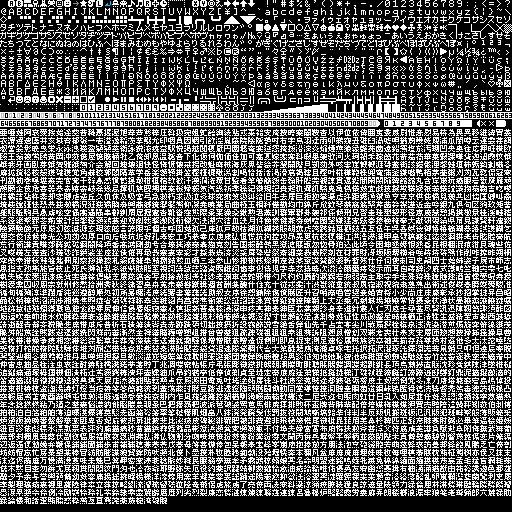
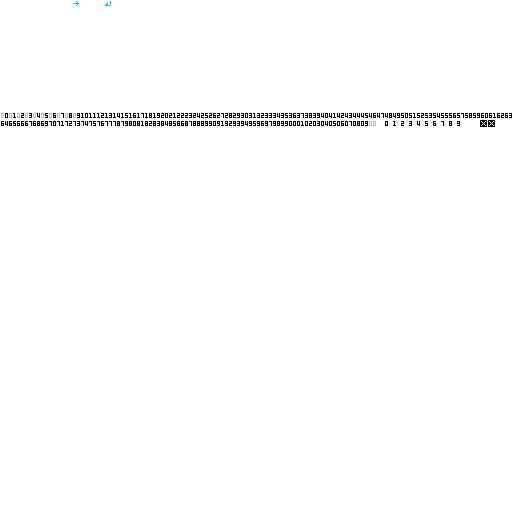
fixed line numbers, background color, added QSP, config.dat reading

diff --git a/screen.js b/screen.js
@@ -1,25 +1,33 @@
 //position of each character on the font sheet
 var lookup={0:[0,0],9:[9,0],10:[13,0],13:[13,0],32:[32,0],33:[33,0],34:[34,0],35:[35,0],36:[36,0],37:[37,0],38:[38,0],39:[39,0],40:[40,0],41:[41,0],42:[42,0],43:[43,0],44:[44,0],45:[45,0],46:[46,0],47:[47,0],48:[48,0],49:[49,0],50:[50,0],51:[51,0],52:[52,0],53:[53,0],54:[54,0],55:[55,0],56:[56,0],57:[57,0],58:[58,0],59:[59,0],60:[60,0],61:[61,0],62:[62,0],63:[63,0],64:[0,1],65:[1,1],66:[2,1],67:[3,1],68:[4,1],69:[5,1],70:[6,1],71:[7,1],72:[8,1],73:[9,1],74:[10,1],75:[11,1],76:[12,1],77:[13,1],78:[14,1],79:[15,1],80:[16,1],81:[17,1],82:[18,1],83:[19,1],84:[20,1],85:[21,1],86:[22,1],87:[23,1],88:[24,1],89:[25,1],90:[26,1],91:[27,1],92:[28,1],93:[29,1],94:[30,1],95:[31,1],96:[32,1],97:[33,1],98:[34,1],99:[35,1],100:[36,1],101:[37,1],102:[38,1],103:[39,1],104:[40,1],105:[41,1],106:[42,1],107:[43,1],108:[44,1],109:[45,1],110:[46,1],111:[47,1],112:[48,1],113:[49,1],114:[50,1],115:[51,1],116:[52,1],117:[53,1],118:[54,1],119:[55,1],120:[56,1],121:[57,1],122:[58,1],123:[59,1],124:[60,1],125:[61,1],126:[62,1],127:[63,1],160:[32,0],161:[58,5],162:[17,6],163:[19,6],164:[57,5],165:[28,1],166:[16,6],167:[13,6],168:[41,6],169:[28,6],170:[36,4],171:[49,8],172:[63,5],173:[61,8],174:[29,6],175:[48,4],176:[31,3],177:[2,6],178:[61,5],179:[62,5],180:[44,6],181:[56,6],182:[14,6],183:[24,10],184:[60,8],185:[60,5],186:[59,5],187:[50,8],188:[57,6],189:[58,6],190:[59,6],191:[60,6],192:[0,9],193:[1,9],194:[2,9],195:[3,9],196:[4,9],197:[5,9],198:[6,9],199:[7,9],200:[8,9],201:[9,9],202:[10,9],203:[11,9],204:[12,9],205:[13,9],206:[14,9],207:[15,9],208:[16,9],209:[17,9],210:[18,9],211:[19,9],212:[20,9],213:[21,9],214:[22,9],215:[0,6],216:[23,9],217:[25,9],218:[26,9],219:[27,9],220:[28,9],221:[29,9],222:[31,9],223:[63,9],224:[32,9],225:[33,9],226:[34,9],227:[35,9],228:[36,9],229:[37,9],230:[38,9],231:[39,9],232:[40,9],233:[41,9],234:[42,9],235:[43,9],236:[44,9],237:[45,9],238:[46,9],239:[47,9],240:[48,9],241:[49,9],242:[50,9],243:[51,9],244:[52,9],245:[53,9],246:[54,9],247:[1,6],248:[55,9],249:[57,9],250:[58,9],251:[59,9],252:[60,9],253:[61,9],254:[63,8],255:[62,9],256:[2,7],257:[2,8],258:[3,7],259:[3,8],260:[4,7],261:[4,8],262:[5,7],263:[5,8],264:[46,7],265:[46,8],266:[6,7],267:[6,8],268:[7,7],269:[7,8],270:[8,7],271:[8,8],272:[16,9],273:[48,9],274:[9,7],275:[9,8],276:[10,7],277:[10,8],278:[11,7],279:[11,8],280:[12,7],281:[12,8],282:[10,7],283:[10,8],284:[47,7],285:[47,8],286:[13,7],287:[13,8],288:[14,7],289:[14,8],290:[15,7],291:[15,8],292:[50,12],293:[50,13],294:[16,7],295:[16,8],296:[51,12],297:[51,13],298:[17,7],299:[17,8],300:[52,12],301:[52,13],302:[18,7],303:[18,8],304:[19,7],305:[20,8],306:[21,7],307:[21,8],308:[53,12],309:[53,13],310:[22,7],311:[22,8],312:[49,7],313:[23,7],314:[23,8],315:[24,7],316:[24,8],317:[25,7],318:[25,8],319:[54,12],320:[54,13],321:[26,7],322:[26,8],323:[27,7],324:[27,8],325:[28,7],326:[28,8],327:[29,7],328:[29,8],329:[42,8],330:[55,12],331:[55,13],332:[56,12],333:[56,13],334:[57,12],335:[57,13],336:[30,7],337:[30,8],338:[24,9],339:[56,9],340:[31,7],341:[31,8],342:[58,12],343:[58,13],344:[32,7],345:[32,8],346:[33,7],347:[33,8],348:[59,12],349:[59,13],350:[34,7],351:[34,8],352:[0,7],353:[0,8],354:[45,7],355:[45,8],356:[35,7],357:[35,8],358:[60,12],359:[60,13],360:[61,12],361:[61,13],362:[36,7],363:[36,8],364:[62,12],365:[62,13],366:[37,7],367:[37,8],368:[38,7],369:[38,8],370:[39,7],371:[39,8],372:[63,12],373:[63,13],374:[32,4],375:[33,4],376:[30,9],377:[40,7],378:[40,8],379:[41,7],380:[41,8],381:[1,7],382:[1,8],383:[47,6],402:[42,7],453:[43,7],454:[43,8],496:[31,13],498:[44,7],499:[44,8],538:[45,7],539:[45,8],711:[25,10],728:[26,10],729:[27,10],730:[0,12],731:[28,10],732:[29,10],894:[63,7],900:[42,6],901:[46,6],902:[51,7],903:[24,10],904:[52,7],905:[53,7],906:[54,7],908:[55,7],910:[56,7],911:[57,7],912:[60,7],913:[0,10],914:[1,10],915:[2,10],916:[3,10],917:[4,10],918:[5,10],919:[6,10],920:[7,10],921:[8,10],922:[9,10],923:[10,10],924:[11,10],925:[12,10],926:[13,10],927:[14,10],928:[15,10],929:[16,10],931:[17,10],932:[18,10],933:[19,10],934:[20,10],935:[21,10],936:[22,10],937:[23,10],938:[58,7],939:[59,7],940:[51,8],941:[52,8],942:[53,8],943:[54,8],944:[61,7],945:[32,10],946:[33,10],947:[34,10],948:[35,10],949:[36,10],950:[37,10],951:[38,10],952:[39,10],953:[40,10],954:[41,10],955:[42,10],956:[43,10],957:[44,10],958:[45,10],959:[46,10],960:[47,10],961:[48,10],962:[62,7],963:[49,10],964:[50,10],965:[51,10],966:[52,10],967:[53,10],968:[54,10],969:[55,10],970:[58,8],971:[59,8],972:[55,8],973:[56,8],974:[57,8],1025:[6,11],1040:[0,11],1041:[1,11],1042:[2,11],1043:[3,11],1044:[4,11],1045:[5,11],1046:[7,11],1047:[8,11],1048:[9,11],1049:[10,11],1050:[11,11],1051:[12,11],1052:[13,11],1053:[14,11],1054:[15,11],1055:[16,11],1056:[17,11],1057:[18,11],1058:[19,11],1059:[20,11],1060:[21,11],1061:[22,11],1062:[23,11],1063:[24,11],1064:[25,11],1065:[26,11],1066:[27,11],1067:[28,11],1068:[29,11],1069:[30,11],1070:[31,11],1071:[48,7],1072:[32,11],1073:[33,11],1074:[34,11],1075:[35,11],1076:[36,11],1077:[37,11],1078:[39,11],1079:[40,11],1080:[41,11],1081:[42,11],1082:[43,11],1083:[44,11],1084:[45,11],1085:[46,11],1086:[47,11],1087:[48,11],1088:[49,11],1089:[50,11],1090:[51,11],1091:[52,11],1092:[53,11],1093:[54,11],1094:[55,11],1095:[56,11],1096:[57,11],1097:[58,11],1098:[59,11],1099:[60,11],1100:[61,11],1101:[62,11],1102:[63,11],1103:[48,8],1105:[38,11],8211:[61,8],8212:[45,0],8216:[44,6],8217:[58,10],8218:[59,10],8219:[60,10],8220:[30,6],8221:[31,6],8222:[57,10],8224:[11,6],8225:[12,6],8230:[37,4],8240:[20,6],8242:[42,6],8243:[45,6],8249:[62,6],8250:[63,6],8251:[26,6],8361:[56,10],8364:[18,6],8470:[31,4],8482:[61,6],8592:[29,0],8593:[30,0],8594:[28,0],8595:[31,0],8658:[21,6],8660:[22,6],8704:[3,6],8706:[4,6],8730:[30,4],8734:[7,6],8756:[8,6],8757:[9,6],8834:[5,6],8835:[6,6],8978:[10,6],9472:[21,2],9473:[30,12],9474:[22,2],9475:[31,12],9484:[24,2],9487:[32,12],9488:[25,2],9491:[33,12],9492:[26,2],9495:[34,12],9496:[27,2],9499:[35,12],9500:[18,2],9501:[47,12],9504:[44,12],9507:[27,12],9508:[20,2],9509:[49,12],9512:[46,12],9515:[29,12],9516:[17,2],9519:[41,12],9520:[43,12],9523:[26,12],9524:[16,2],9527:[40,12],9528:[42,12],9531:[25,12],9532:[19,2],9535:[48,12],9538:[45,12],9547:[28,12],9588:[23,12],9589:[24,12],9590:[21,12],9591:[22,12],9592:[38,12],9593:[39,12],9594:[36,12],9595:[37,12],9632:[32,3],9633:[36,3],9650:[34,3],9651:[38,3],9660:[35,3],9661:[39,3],9670:[50,3],9671:[0,2],9675:[37,3],9678:[26,0],9679:[33,3],9733:[10,0],9734:[50,6],9792:[24,6],9794:[25,6],9824:[48,3],9825:[61,10],9826:[0,2],9827:[51,3],9828:[27,12.75],9829:[49,3],9830:[50,3],9831:[62,10],9834:[16,0],9837:[27,6],12288:[32,0],12289:[36,2],12290:[33,2],12291:[36,6],12293:[34,6],12294:[39,6],12296:[51,6],12297:[52,6],12298:[53,6],12299:[54,6],12300:[34,2],12301:[35,2],12302:[34,4],12303:[35,4],12304:[48,6],12305:[49,6],12306:[23,6],12316:[32,2],12317:[33,6],12319:[32,6],12353:[39,4],12354:[49,4],12355:[40,4],12356:[50,4],12357:[41,4],12358:[51,4],12359:[42,4],12360:[52,4],12361:[43,4],12362:[53,4],12363:[54,4],12364:[32,5],12365:[55,4],12366:[33,5],12367:[56,4],12368:[34,5],12369:[57,4],12370:[35,5],12371:[58,4],12372:[36,5],12373:[59,4],12374:[37,5],12375:[60,4],12376:[38,5],12377:[61,4],12378:[39,5],12379:[62,4],12380:[40,5],12381:[63,4],12382:[41,5],12383:[0,5],12384:[42,5],12385:[1,5],12386:[43,5],12387:[47,4],12388:[2,5],12389:[44,5],12390:[3,5],12391:[45,5],12392:[4,5],12393:[46,5],12394:[5,5],12395:[6,5],12396:[7,5],12397:[8,5],12398:[9,5],12399:[10,5],12400:[47,5],12401:[52,5],12402:[11,5],12403:[48,5],12404:[53,5],12405:[12,5],12406:[49,5],12407:[54,5],12408:[13,5],12409:[50,5],12410:[55,5],12411:[14,5],12412:[51,5],12413:[56,5],12414:[15,5],12415:[16,5],12416:[17,5],12417:[18,5],12418:[19,5],12419:[44,4],12420:[20,5],12421:[45,4],12422:[21,5],12423:[46,4],12424:[22,5],12425:[23,5],12426:[24,5],12427:[25,5],12428:[26,5],12429:[27,5],12430:[29,4],12431:[28,5],12434:[38,4],12435:[29,5],12443:[30,5],12444:[31,5],12445:[37,6],12446:[38,6],12449:[39,2],12450:[49,2],12451:[40,2],12452:[50,2],12453:[41,2],12454:[51,2],12455:[42,2],12456:[52,2],12457:[43,2],12458:[53,2],12459:[54,2],12460:[0,4],12461:[55,2],12462:[1,4],12463:[56,2],12464:[2,4],12465:[57,2],12466:[3,4],12467:[58,2],12468:[4,4],12469:[59,2],12470:[5,4],12471:[60,2],12472:[6,4],12473:[61,2],12474:[7,4],12475:[62,2],12476:[8,4],12477:[63,2],12478:[9,4],12479:[0,3],12480:[10,4],12481:[1,3],12482:[11,4],12483:[47,2],12484:[2,3],12485:[12,4],12486:[3,3],12487:[13,4],12488:[4,3],12489:[14,4],12490:[5,3],12491:[6,3],12492:[7,3],12493:[8,3],12494:[9,3],12495:[10,3],12496:[15,4],12497:[20,4],12498:[11,3],12499:[16,4],12500:[21,4],12501:[12,3],12502:[17,4],12503:[22,4],12504:[13,3],12505:[18,4],12506:[23,4],12507:[14,3],12508:[19,4],12509:[24,4],12510:[15,3],12511:[16,3],12512:[17,3],12513:[18,3],12514:[19,3],12515:[44,2],12516:[20,3],12517:[45,2],12518:[21,3],12519:[46,2],12520:[22,3],12521:[23,3],12522:[24,3],12523:[25,3],12524:[26,3],12525:[27,3],12526:[28,4],12527:[28,3],12530:[38,2],12531:[29,3],12532:[25,4],12533:[26,4],12534:[27,4],12539:[37,2],12540:[48,2],20189:[35,6],57600:[0,14],57601:[1,14],57602:[2,14],57603:[3,14],57604:[4,14],57605:[5,14],57606:[6,14],57607:[7,14],57608:[8,14],57609:[9,14],57610:[10,14],57611:[11,14],57612:[12,14],57613:[13,14],57614:[14,14],57615:[15,14],57616:[16,14],57617:[17,14],57618:[18,14],57619:[19,14],57620:[20,14],57621:[21,14],57622:[22,14],57623:[23,14],57624:[24,14],57625:[25,14],57626:[26,14],57627:[27,14],57628:[28,14],57629:[29,14],57630:[30,14],57631:[31,14],57632:[32,14],57633:[33,14],57634:[34,14],57635:[35,14],57636:[36,14],57637:[37,14],57638:[38,14],57639:[39,14],57640:[40,14],57641:[41,14],57642:[42,14],57643:[43,14],57644:[44,14],57645:[45,14],57646:[46,14],57647:[47,14],57648:[48,14],57649:[49,14],57650:[50,14],57651:[51,14],57652:[52,14],57653:[53,14],57654:[54,14],57655:[55,14],57656:[56,14],57657:[57,14],57658:[58,14],57659:[59,14],57660:[60,14],57661:[61,14],57662:[62,14],57663:[63,14],57664:[0,15],57665:[1,15],57666:[2,15],57667:[3,15],57668:[4,15],57669:[5,15],57670:[6,15],57671:[7,15],57672:[8,15],57673:[9,15],57674:[10,15],57675:[11,15],57676:[12,15],57677:[13,15],57678:[14,15],57679:[15,15],57680:[16,15],57681:[17,15],57682:[18,15],57683:[19,15],57684:[20,15],57685:[21,15],57686:[22,15],57687:[23,15],57688:[24,15],57689:[25,15],57690:[26,15],57691:[27,15],57692:[28,15],57693:[29,15],57694:[30,15],57695:[31,15],57696:[32,15],57697:[33,15],57698:[34,15],57699:[35,15],57700:[36,15],57701:[37,15],57702:[38,15],57703:[39,15],57704:[40,15],57705:[41,15],57706:[42,15],57707:[43,15],57708:[44,15],57709:[45,15],57710:[46,15],57711:[47,15],57712:[48,15],57713:[49,15],57714:[50,15],57715:[51,15],57716:[52,15],57717:[53,15],57718:[54,15],57719:[55,15],57720:[56,15],57721:[57,15],57722:[58,15],57723:[59,15],57724:[60,15],57725:[61,15],57726:[62,15],57727:[63,15],57856:[32,0],57857:[1,0],57858:[2,0],57859:[3,0],57860:[4,0],57861:[5,0],57862:[6,0],57863:[7,0],57864:[8,0],57865:[9,0],57866:[10,0],57867:[11,0],57868:[12,0],57869:[13,0],57870:[14,0],57871:[15,0],57872:[16,0],57873:[17,0],57874:[18,0],57875:[19,0],57876:[20,0],57877:[21,0],57878:[22,0],57879:[23,0],57880:[24,0],57881:[25,0],57882:[26,0],57883:[27,0],57884:[28,0],57885:[29,0],57886:[30,0],57887:[31,0],57888:[0,12],57889:[1,12],57890:[2,12],57891:[3,12],57892:[4,12],57893:[5,12],57894:[6,12],57895:[7,12],57896:[8,12],57897:[9,12],57898:[10,12],57899:[11,12],57900:[12,12],57901:[13,12],57902:[14,12],57903:[15,12],57904:[16,12],57905:[17,12],57906:[18,12],57907:[19,12],57908:[20,12],57909:[55,6],57910:[50,7],57911:[62,8],57912:[31,10],57913:[27,13],57914:[21,13],57915:[22,13],57916:[23,13],57917:[24,13],57918:[25,13],57919:[26,13],57920:[0,13],57921:[1,13],57922:[2,13],57923:[3,13],57924:[4,13],57925:[5,13],57926:[6,13],57927:[7,13],57928:[8,13],57929:[9,13],57930:[10,13],57931:[11,13],57932:[12,13],57933:[13,13],57934:[14,13],57935:[15,13],57936:[16,13],57937:[17,13],57938:[18,13],57939:[19,13],57940:[20,13],57941:[21,13],57942:[22,13],57943:[23,13],57944:[24,13],57945:[25,13],57946:[26,13],57952:[21,12],57953:[22,12],57954:[23,12],57955:[24,12],57956:[25,12],57957:[26,12],57958:[27,12],57959:[28,12],57960:[29,12],57961:[30,12],57962:[31,12],57963:[32,12],57964:[33,12],57965:[34,12],57966:[35,12],57967:[36,12],57968:[37,12],57969:[38,12],57970:[39,12],57971:[40,12],57972:[41,12],57973:[42,12],57974:[43,12],57975:[44,12],57976:[45,12],57977:[46,12],57978:[47,12],57979:[48,12],57980:[49,12],57981:[1,12],57982:[10,12],57983:[11,12],57984:[0,2],57985:[1,2],57986:[2,2],57987:[3,2],57988:[4,2],57989:[5,2],57990:[6,2],57991:[7,2],57992:[8,2],57993:[9,2],57994:[10,2],57995:[11,2],57996:[12,2],57997:[13,2],57998:[14,2],57999:[15,2],58000:[16,2],58001:[17,2],58002:[18,2],58003:[19,2],58004:[20,2],58005:[21,2],58006:[22,2],58007:[23,2],58008:[24,2],58009:[25,2],58010:[26,2],58011:[27,2],58012:[28,2],58013:[29,2],58014:[30,2],58015:[31,2],58016:[32,13],58017:[33,13],58018:[34,13],58019:[35,13],58020:[36,13],58021:[37,13],58022:[38,13],58023:[39,13],58024:[40,13],58025:[41,13],58026:[42,13],58027:[43,13],58028:[44,13],58029:[45,13],58030:[46,13],58031:[47,13],58032:[48,13],58033:[49,13],58034:[0,13],58035:[1,13],58036:[2,13],58037:[3,13],58038:[4,13],58039:[5,13],58040:[6,13],58041:[7,13],58042:[8,13],58043:[9,13],58044:[2,12],58045:[3,12],58046:[4,12],58047:[20,13],58048:[10,13],58049:[11,13],58050:[12,13],58051:[13,13],58052:[14,13],58053:[15,13],58054:[16,13],58055:[17,13],58056:[18,13],58057:[19,13],58080:[32,3],58081:[33,3],58082:[34,3],58083:[35,3],58084:[36,3],58085:[37,3],58086:[38,3],58087:[39,3],58088:[40,3],58089:[41,3],58090:[42,3],58091:[43,3],58092:[44,3],58093:[45,3],58094:[46,3],58095:[47,3],58096:[48,3],58097:[49,3],58098:[50,3],58099:[51,3],58100:[52,3],58101:[53,3],58102:[54,3],58103:[55,3],58104:[56,3],58105:[57,3],58106:[58,3],58107:[59,3],58108:[60,3],58109:[61,3],58110:[62,3],58111:[63,3],65280:[32,0],65281:[33,0],65282:[34,0],65283:[35,0],65284:[36,0],65285:[37,0],65286:[38,0],65287:[39,0],65288:[40,0],65289:[41,0],65290:[42,0],65291:[43,0],65292:[44,0],65293:[45,0],65294:[46,0],65295:[47,0],65296:[48,0],65297:[49,0],65298:[50,0],65299:[51,0],65300:[52,0],65301:[53,0],65302:[54,0],65303:[55,0],65304:[56,0],65305:[57,0],65306:[58,0],65307:[59,0],65308:[60,0],65309:[61,0],65310:[62,0],65311:[63,0],65312:[0,1],65313:[1,1],65314:[2,1],65315:[3,1],65316:[4,1],65317:[5,1],65318:[6,1],65319:[7,1],65320:[8,1],65321:[9,1],65322:[10,1],65323:[11,1],65324:[12,1],65325:[13,1],65326:[14,1],65327:[15,1],65328:[16,1],65329:[17,1],65330:[18,1],65331:[19,1],65332:[20,1],65333:[21,1],65334:[22,1],65335:[23,1],65336:[24,1],65337:[25,1],65338:[26,1],65339:[27,1],65340:[28,1],65341:[29,1],65342:[30,1],65343:[31,1],65344:[32,1],65345:[33,1],65346:[34,1],65347:[35,1],65348:[36,1],65349:[37,1],65350:[38,1],65351:[39,1],65352:[40,1],65353:[41,1],65354:[42,1],65355:[43,1],65356:[44,1],65357:[45,1],65358:[46,1],65359:[47,1],65360:[48,1],65361:[49,1],65362:[50,1],65363:[51,1],65364:[52,1],65365:[53,1],65366:[54,1],65367:[55,1],65368:[56,1],65369:[57,1],65370:[58,1],65371:[59,1],65372:[15,6],65373:[61,1],65374:[32,2]};
 
-var x,y,line,fullWidth=50,fullHeight=30,charSize=8,bw=4;
-var width=fullWidth-bw,height=fullHeight-1;
+var charSize=8,bw=4; //size of char, width of left border
+var fullWidth,fullHeight; //full size of the screen (in chars)
+var width,height; //size of editor (in chars)
+var x,y,line;
+
 var background;
 
 var bufferCanvas=document.createElement("canvas");
-bufferCanvas.width=400;
-bufferCanvas.height=240;
 var screenContext=bufferCanvas.getContext("2d");
 
-function changeHeight(rows){
-	height=rows;
+changeSize(50-bw,30-1);
+
+function changeSize(newWidth,newHeight){
+	height=newHeight;
 	fullHeight=height+1;
 	bufferCanvas.height=fullHeight*charSize;
+	
+	width=newWidth;
+	fullWidth=width+bw;
+	bufferCanvas.width=fullWidth*charSize;
 }
 
 var colors={};
 
 var nextNewLine;
 
+//draw section of code (highlighter callback function)
 function putpart(code,type){
 	if(y>=height)
 		return;
@@ -46,6 +54,7 @@ function putpart(code,type){
 	}
 }
 
+//draw line number
 function startline(line){
 	var started=false,n,symbol;
 	for(var i=0;i<3;i++){
@@ -63,6 +72,7 @@ function startline(line){
 	putchar(3,y,0xE16F,0xC6C6C6);
 }
 
+//draw empty/continued line
 function passline(){
 	for(var i=0;i<3;i++)
 		putchar(i,y,0xE17E,0xC6C6C6);
@@ -73,11 +83,12 @@ function toCssColor(color){
 	return "rgb("+(color>>16)+","+(color>>8 & 255)+","+(color & 255)+")";
 }
 
+//calculate height of code (line wrap enabled)
 function codeHeight(code,cols){
 	var rows=0;
 	var rowLength=0;
 	for(var i=0;i<code.length;i++){ //slow xd
-		++rowLength
+		++rowLength;
 		if(code.charAt(i)=="\n" || i==code.length-1){
 			rows+=Math.ceil(rowLength/cols);
 			rowLength=0;
@@ -86,8 +97,13 @@ function codeHeight(code,cols){
 	return rows;
 }
 
-function makeScreenshot(code,newColors,rows){
-	changeHeight(Number(rows) || codeHeight(code,width));
+function makeScreenshot(code,newColors,qsp,tall){
+	var newWidth = qsp?25-4:50-4;
+	changeSize(newWidth, tall?codeHeight(code,newWidth):(qsp?15-1:30-1));
+	if(qsp){
+		bufferCanvas.width*=2;
+		bufferCanvas.height*=2;
+	}
 	
 	colors=newColors;
 	nextNewLine=false;
@@ -98,36 +114,45 @@ function makeScreenshot(code,newColors,rows){
 	background=colors.background;
 	screenContext.fillStyle=toCssColor(background);
 	screenContext.fillRect(0,0,fullWidth*charSize,fullHeight*charSize);
+	
 	startline(line);
 	highlight(code,putpart);
+	y++; //fixed?
 	
-	if(x>=width){
-		x=0;
-		y++;
-		passline();
-	}
+	//if(x>=width) //what was the point of this??
+	//	x=0;
+	//	y++;
+	//	passline();
+	//draw empty lines
 	for(;y<height;y++)
 		passline();
+	//draw bottom border
 	for(var i=0;i<bw;i++)
 		putchar(i,height,0xE17A,0xC6C6C6);
-	var char;
+	var chr;
 	for(var i=0;i<width;i+=2){
 		if(i<10)
-			char=0xE170+i;
+			chr=0xE170+i;
 		else
-			char=0xE100+i;
-		putchar(i+bw,height,char,0xC6C6C6);
+			chr=0xE100+i;
+		putchar(i+bw,height,chr,0xC6C6C6);
 		if(i<width-1)
 			putchar(i+1+bw,height,0xE17A,0xC6C6C6);
 	}
+	
+	if(qsp){
+		screenContext.imageSmoothingEnabled=false;
+		screenContext.drawImage(bufferCanvas,0,0,bufferCanvas.width/2,bufferCanvas.height/2,0,0,bufferCanvas.width,bufferCanvas.height);
+	}
 }
 
-function putchar(x,y,char,color){
-	put(x,y,lookup[char]||[63,10],color);
+function putchar(x,y,chr,color){
+	put(x,y,lookup[chr]||[63,10],color);
 }
 
 function put(x,y,pos,color){
 	var data=f2d.getImageData(pos[0]*8,pos[1]*8,8,8);
+	
 	for(var i=0;i<data.data.length;i+=4){
 		if(data.data[i+3]==255){
 			data.data[i  ] *= (color>>16)/255

diff --git a/index.html b/index.html
@@ -17,26 +17,28 @@
 		<input type="file" name="textfileinput"/>
 		<br>
 		<textarea name="textinput"></textarea>
-		<br>
-		Rows: <input name="rows" type="number" value="29"> (default: 29)
 		<hr>
+		QSP: <input name="qsp" type="checkbox"><br>
+		Full Height: <input name="tall" type="checkbox"><br>
+		read colors from config.dat: <input name="config" type="file" oninput="doConfig(this)">
+		<br>
 		Text:
-		<input name="text"       type="color" value="#FFFFFF" onchange="go();">
+		<input name="text"       type="color" value="#FFFFFF">
 		Number:
-		<input name="number"     type="color" value="#F67BD5" onchange="go();">
+		<input name="number"     type="color" value="#F67BD5">
 		String:
-		<input name="string"     type="color" value="#A0A0A0" onchange="go();">
+		<input name="string"     type="color" value="#A0A0A0">
 		Function:
-		<input name="function"   type="color" value="#7A7Cf7" onchange="go();">
+		<input name="function"   type="color" value="#7A7Cf7">
 		<br>
 		Keyword:
-		<input name="keyword"    type="color" value="#6BBDF5" onchange="go();">
+		<input name="keyword"    type="color" value="#6BBDF5">
 		Comment:
-		<input name="comment"    type="color" value="#10B630" onchange="go();">
+		<input name="comment"    type="color" value="#10B630">
 		Label:
-		<input name="label"      type="color" value="#F7A600" onchange="go();">
+		<input name="label"      type="color" value="#F7A600">
 		Background:
-		<input name="background" type="color" value="#000000" onchange="go();">
+		<input name="background" type="color" value="#000000">
 		<br>
 		<input type="button" name="convert2" value="generate screenshot" onclick="go();">
 	</fieldset>
@@ -49,4 +51,3 @@
 <script src="screen.js"></script>
 <script src="onload.js"></script>
 <script src="https://12Me21.github.io/sbhighlight2/sbhighlight.js"></script>
-

diff --git a/onload.js b/onload.js
@@ -50,7 +50,7 @@ function go(){
 	}
 	for(var i in colors)
 		colors[i]=parseInt(form[i].value.substr(1),16);
-	makeScreenshot(form.textinput.value,colors,form.rows.value);
+	makeScreenshot(form.textinput.value,colors,form.qsp.checked,form.tall.checked);
 	form.imageoutput.src=bufferCanvas.toDataURL("image/png");
 }
 
@@ -184,4 +184,42 @@ window.onload=function(){
 		font[i]=toBw(f2d.getImageData(i%64*8,Math.floor(i/64)*8,8,8).data,127);
 	
 	s2d=sc.getContext("2d");
+}
+
+function argbToHex(argb){
+	return "#"+((argb & 0xFFFFFF) | 0x1000000).toString(16).substr(1)// + (argb>>>8*3 | 0x100).toString(16).substr(1);
+}
+
+function doConfig(th){
+	var reader=new FileReader();
+	reader.onload=function(){
+		data = readConfig(reader.result);
+		console.log(data);
+		form.comment.value = argbToHex(data.colors.comment);
+		form.keyword.value = argbToHex(data.colors.keyword);
+		form.string.value = argbToHex(data.colors.string);
+		form.label.value = argbToHex(data.colors.label);
+		form.number.value = argbToHex(data.colors.numeric);
+		form.text.value = argbToHex(data.colors.text);
+		form["function"].value = argbToHex(data.colors.statement);
+		form.background.value = argbToHex(data.colors.background);
+	};
+	reader.readAsArrayBuffer(th.files[0]);
+}
+
+//config is arraybuffer
+function readConfig(config){
+	if(config.byteLength != 0x610)
+		return null;
+	config = new DataView(config);
+	return ({colors:{
+		comment: config.getInt32(0x0A4,true),
+		keyword: config.getInt32(0x0A8,true),
+		string: config.getInt32(0x0AC,true),
+		label: config.getInt32(0x0B0,true),
+		numeric: config.getInt32(0x0B4,true),
+		text: config.getInt32(0x0B8,true),
+		statement: config.getInt32(0x600,true),
+		background: config.getInt32(0x604,true)
+	}});
 }
